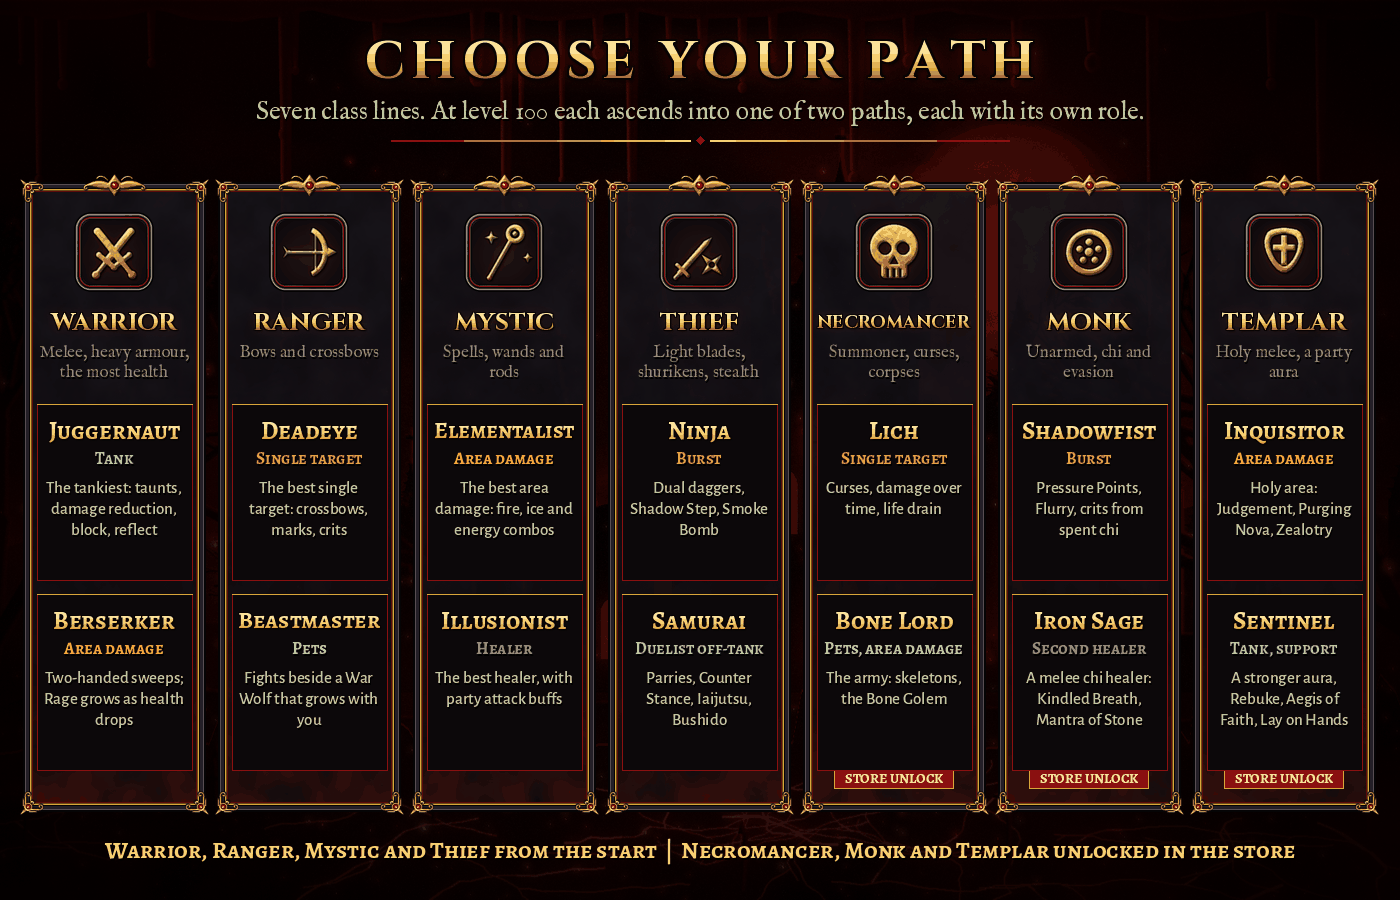
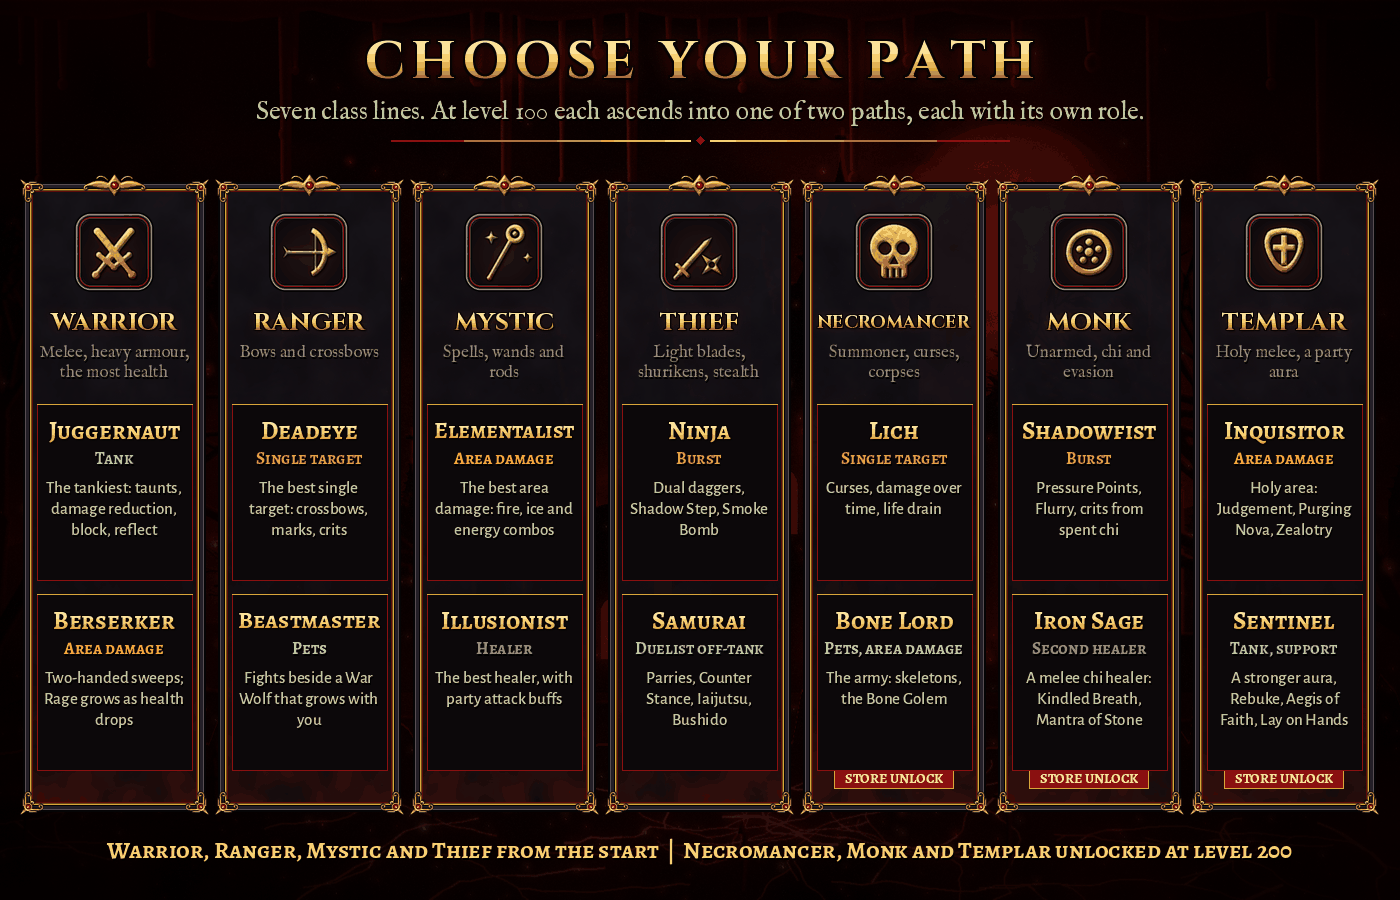
Site: classes unlock at level 200, no old chat commands
The site, the wiki guide and the class showcase art said the Necromancer,
Monk and Templar are bought in the store; they unlock for the account at
level 200 (never sold). The site named !ascend and !patchnotes, which no
longer exist: the Ascendant Oracle and Social > Patch Notes now.

Claude-Session: https://claude.ai/code/session_01MSp5LCfR63GEHJQb2KD2t4

Changed region(s): [[0.0614, 0.9333, 0.9214, 0.9644]]

diff --git a/website/overlay/layouts/chaos/views/serverinfo.php b/website/overlay/layouts/chaos/views/serverinfo.php
@@ -59,7 +59,7 @@ $sections = array(
 	<table class="chaos-table">
 		<tbody>
 			<tr><th>Client</th><td>Our own client (protocol 10.98) with a custom skin, a top menu and a window for every system</td></tr>
-			<tr><th>Classes</th><td>7 class lines, each with 2 ascensions (14 ascended classes); the Necromancer, Monk and Templar unlock per account in the store</td></tr>
+			<tr><th>Classes</th><td>7 class lines, each with 2 ascensions (14 ascended classes); the Necromancer, Monk and Templar unlock for the whole account once any of its characters reaches level 200</td></tr>
 			<tr><th>Level cap</th><td>1000, then Paragon levels. Reaching 1000 takes roughly 100 hours of hunting</td></tr>
 			<tr><th>Items</th><td>7 rarities, item levels, random modifiers, about 50 uniques</td></tr>
 			<tr><th>Endgame</th><td>World bosses, bounties, rifts, the Infinity Tower, dungeons, arena, guild siege, weekly leaderboards</td></tr>
@@ -74,7 +74,7 @@ $sections = array(
 
 <div class="chaos-box" id="classes">
 	<h2 class="chaos-heading">Classes</h2>
-	<p class="chaos-lead">You start as one of seven classes (four free, three unlocked per account in the store). At level 100 you <strong>ascend</strong> into one of two specialisations at the Ascendant Oracle. Every class has its own Chaos spells with custom names, icons and effects; the spellbook (Character > Spellbook) lists them all. Balance is measured on test dummies at levels 300 and 1000, so every class keeps a clear role in a group.</p>
+	<p class="chaos-lead">You start as one of seven classes (four free, three unlocked for your account when any of your characters reaches level 200). At level 100 you <strong>ascend</strong> into one of two specialisations at the Ascendant Oracle. Every class has its own Chaos spells with custom names, icons and effects; the spellbook (Character > Spellbook) lists them all. Balance is measured on test dummies at levels 300 and 1000, so every class keeps a clear role in a group.</p>
 	<?php if (function_exists('chaos_class_lines')): ?>
 	<table class="chaos-table">
 		<thead><tr><th>Base class</th><th>Plays as</th><th>Ascensions</th></tr></thead>

diff --git a/website/overlay/layouts/chaos/views/index.php b/website/overlay/layouts/chaos/views/index.php
@@ -45,7 +45,7 @@ $latest = $plugin && function_exists('chaos_patchnotes') ? (chaos_patchnotes()[0
 	<?php if ($lines): ?>
 	<section class="chaos-box">
 		<h2 class="chaos-heading">Choose your path</h2>
-		<p class="chaos-lead">Start as one of seven classes (four free, three unlocked in the store). At level 100 you ascend into one of two specialisations (<code>!ascend</code>).</p>
+		<p class="chaos-lead">Start as one of seven classes (four free, three unlocked by reaching level 200). At level 100 you ascend into one of two specialisations with the Ascendant Oracle in the temple.</p>
 		<div class="chaos-classes">
 			<?php foreach ($lines as $base => $line): ?>
 				<div class="chaos-class<?= $line['lock'] !== '' ? ' is-locked' : '' ?>">
@@ -60,7 +60,7 @@ $latest = $plugin && function_exists('chaos_patchnotes') ? (chaos_patchnotes()[0
 				</div>
 			<?php endforeach; ?>
 		</div>
-		<p class="chaos-note">The Monk, the Necromancer and the Templar are unlocked per account in the game store.</p>
+		<p class="chaos-note">The Monk, the Necromancer and the Templar unlock for your whole account once any of your characters reaches level 200.</p>
 	</section>
 	<?php endif; ?>
 

diff --git a/website/overlay/plugins/chaos/plugin.php b/website/overlay/plugins/chaos/plugin.php
@@ -16,7 +16,7 @@
  *    character.created hook (website form and client, chaos_client_api.php).
  *  - Optional starter depot boxes for new characters (the base server's
  *    ADD_DEPOT_BOXES_NEW_PLAYERS snippet), on the character.created hook. Off by
- *    default ($config['chaos']['depot_boxes']): !season join needs an empty depot.
+ *    default ($config['chaos']['depot_boxes']): joining a season needs an empty depot.
  *  - Mail and account recovery: mail_lib.php (one sender, off without SMTP settings) and recovery_lib.php (a
  *    one-time reset link; recovery.php hands over to recovery_page.php).
  *  - Legal texts (legal_lib.php, pages/legal.php): Terms of Use, Privacy Policy, Donation Terms; account creation

diff --git a/website/overlay/layouts/chaos/views/createcharacter.php b/website/overlay/layouts/chaos/views/createcharacter.php
@@ -64,7 +64,7 @@ foreach ($lines as $base => $line) {
 						</label>
 					<?php endforeach; ?>
 				</div>
-				<p class="chaos-note">You ascend at level 100, in the game (<code>!ascend</code>).<?php if ($hidden > 0): ?> More classes (the Monk, the Necromancer and the Templar) are unlocked for your whole account in the game store.<?php endif; ?></p>
+				<p class="chaos-note">You ascend at level 100 with the Ascendant Oracle in the temple, in the game.<?php if ($hidden > 0): ?> More classes (the Monk, the Necromancer and the Templar) unlock for your whole account once any of its characters reaches level 200.<?php endif; ?></p>
 			</div>
 
 			<div class="chaos-field">

diff --git a/website/overlay/plugins/chaos/lib.php b/website/overlay/plugins/chaos/lib.php
@@ -45,7 +45,7 @@ function chaos_cfg(?string $key = null, $default = null) {
 		'staff_group'      => 4,                  // leaderboard_config.lua staffGroup
 		'staff_account_type' => 5,                // class_unlocks_core.lua bypass.minAccountType
 		'base_classes'     => array(4, 3, 1, 11), // offered to every account
-		'depot_boxes'      => false,              // the base server's new-player depot boxes (off: they block !season join)
+		'depot_boxes'      => false,              // the base server's new-player depot boxes (off: they block joining a season)
 	);
 	if ($key === null) {
 		return $cfg;

diff --git a/website/overlay/plugins/chaos/pages/patchnotes.php b/website/overlay/plugins/chaos/pages/patchnotes.php
@@ -22,7 +22,7 @@ if ($want !== '' && chaos_pn_valid_id($want)) {
 <div class="chaos-page">
 	<div class="chaos-box">
 		<h1 class="chaos-heading">Patch Notes</h1>
-		<p class="chaos-lead">Every week's changes, the same notes as the Patch Notes window in the game (top menu, or <code>!patchnotes</code>).</p>
+		<p class="chaos-lead">Every week's changes, the same notes as the Patch Notes window in the game (top menu Social &gt; Patch Notes).</p>
 		<?php if (!$notes): ?>
 			<p class="chaos-empty">No patch notes yet.</p>
 		<?php else: ?>

diff --git a/website/tools/gen_site_art.py b/website/tools/gen_site_art.py
@@ -616,7 +616,7 @@ def gen_showcase():
             y += 190
         x += colw + gap
     plain_text(img, (W // 2, 850), "Warrior, Ranger, Mystic and Thief from the start  |  Necromancer, Monk and Templar "
-               "unlocked in the store", font(24, "heading"), fill=GOLD_3, anchor="mm")
+               "unlocked at level 200", font(24, "heading"), fill=GOLD_3, anchor="mm")
     save(img.convert("RGB"), OUT_ART, "class-showcase-1400x900.png", colors=128)
 
 

diff --git a/docs/CLASSES.md b/docs/CLASSES.md
@@ -1,8 +1,8 @@
 # Classes (design, agreed; phase 1, the Thief line, and phase 2a, the other three lines, implemented; the Necromancer, Monk and Templar built, phase A)
 
-Seven class lines: four base classes plus the Necromancer, Monk and Templar (store unlock). At promotion each picks one of two ascended classes, like Path of Exile ascendancies.
+Seven class lines: four base classes plus the Necromancer, Monk and Templar (unlocked per account at level 200). At promotion each picks one of two ascended classes, like Path of Exile ascendancies.
 The Necromancer, the Monk and the Templar are classes five to seven (tested in game, phase B: level 300 measured); they are
-locked behind a store unlock for now (see "Class lock").
+unlocked for the account once one of its characters reaches level 200 (see "Class lock").
 
 | Base class | Plays as | Ascended choice A | Ascended choice B |
 |---|---|---|---|
@@ -557,7 +557,7 @@ Wild Bond by its words, and the level 1000 sanity measurement in `server/data/sp
 - **Vocations** (`server/data/XML/chaos_vocations_necro.xml`, installed with the other classes by
   `server/tools/add_vocations.py DATA_DIR`): 20 Necromancer (client byte 7; hp 8 / mana 26 / cap 13), 21 Lich (17; 7 / 28 / 12),
   22 Bone Lord (27; 9 / 24 / 15, defense / armor 1.05). Skills and magic level like the Mystic; the casters' wands, rods,
-  gear, stock heals and mana potions (`add_vocations.py`). Locked behind the store's class unlock (`class_unlocks.lua`,
+  gear, stock heals and mana potions (`add_vocations.py`). Locked behind the account's class unlock at level 200 (`class_unlocks.lua`,
   key "necromancer").
 - **Ascension**: the Ascendant Oracle (`Chaos.classes.ascension.choices[20]`).
 - **Kit**: 13 spells (ids 180-188, the Necromancer's Bone Shrapnel 197 of 2026-10-15 and the three summon spells Raise Bone Warrior 192 / Archer 193 / Mage 176 of 2026-10-18, `_packtools.lua`; `server/data/spells/chaos/necromancer|lich|bonelord`, helpers `_necro.lua`);
@@ -709,7 +709,7 @@ registered with `registerMethod`), without touching the gate code.
 - Gates: the store's Character > Services and the Ascendant Oracle refuse a locked class (the vocation change token is kept);
   the login check covers everything else (characters made on the website, staff tools): a character on a locked vocation
   logs in, goes to its temple, cannot attack and gains no experience or skills, and a window says how to unlock; the store
-  works in that state, so buying the unlock ends the restriction at once. (`login.mode = "kick"` logs it out instead.)
+  works in that state; the unlock ends the restriction at once. (`login.mode = "kick"` logs it out instead.)
   Staff (group 4+, or account type 5+) is never locked.
 - Characters are created on the website: the base server has no account manager and no in-game character creation (the
   engine never inserts into `players`; its login only reads the character list). The website should offer the three classes

diff --git a/website/overlay/plugins/chaos/wiki/guides/classes.pt-BR.md b/website/overlay/plugins/chaos/wiki/guides/classes.pt-BR.md
@@ -11,7 +11,7 @@ Há {{class.lines}} linhas de classe. Cada uma começa com uma classe base e asc
 
 ## As classes desbloqueáveis
 
-{{class.lockedNames}} são desbloqueados por conta, na loja do jogo, por {{class.unlockCost}} Chaos Coins cada. O desbloqueio vale para todos os personagens da conta.
+{{class.lockedNames}} são desbloqueados para a conta inteira quando qualquer personagem dela chega ao nível {{class.unlockLevel}}, jogando. Eles nunca são vendidos.
 
 - **[Monk](wiki:class:monk)**: luta de mãos vazias com chi. Shadowfist ou Iron Sage.
 - **[Necromancer](wiki:class:necromancer)**: mortos-vivos e maldições. Lich ou Bone Lord.

diff --git a/website/overlay/plugins/chaos/wiki/guides/classes.en.md b/website/overlay/plugins/chaos/wiki/guides/classes.en.md
@@ -11,7 +11,7 @@ There are {{class.lines}} class lines. Each starts with a base class and ascends
 
 ## The unlockable classes
 
-{{class.lockedNames}} are unlocked per account in the game store, for {{class.unlockCost}} Chaos Coins each. The unlock is for every character of the account.
+{{class.lockedNames}} unlock for your whole account once any of its characters reaches level {{class.unlockLevel}}, by playing. They are never sold.
 
 - **[Monk](wiki:class:monk)**: bare-handed fighting with chi. Shadowfist or Iron Sage.
 - **[Necromancer](wiki:class:necromancer)**: the undead and curses. Lich or Bone Lord.
